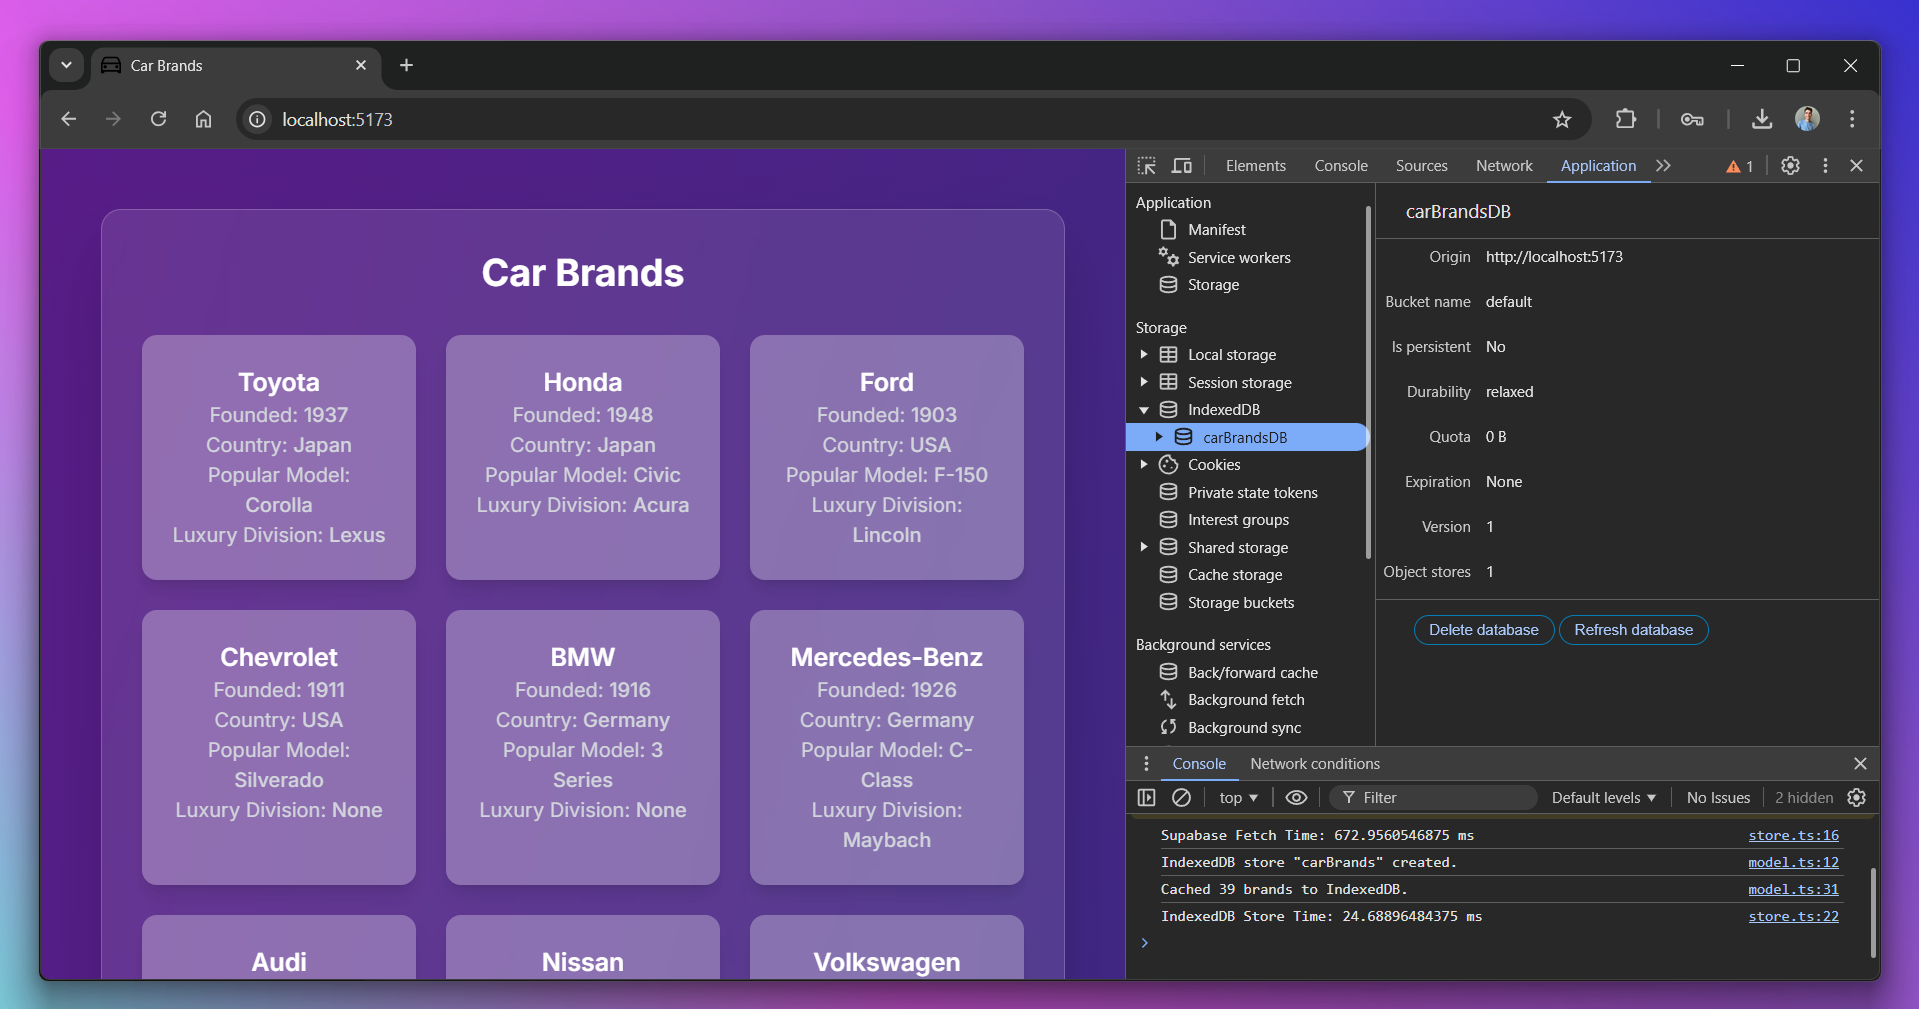
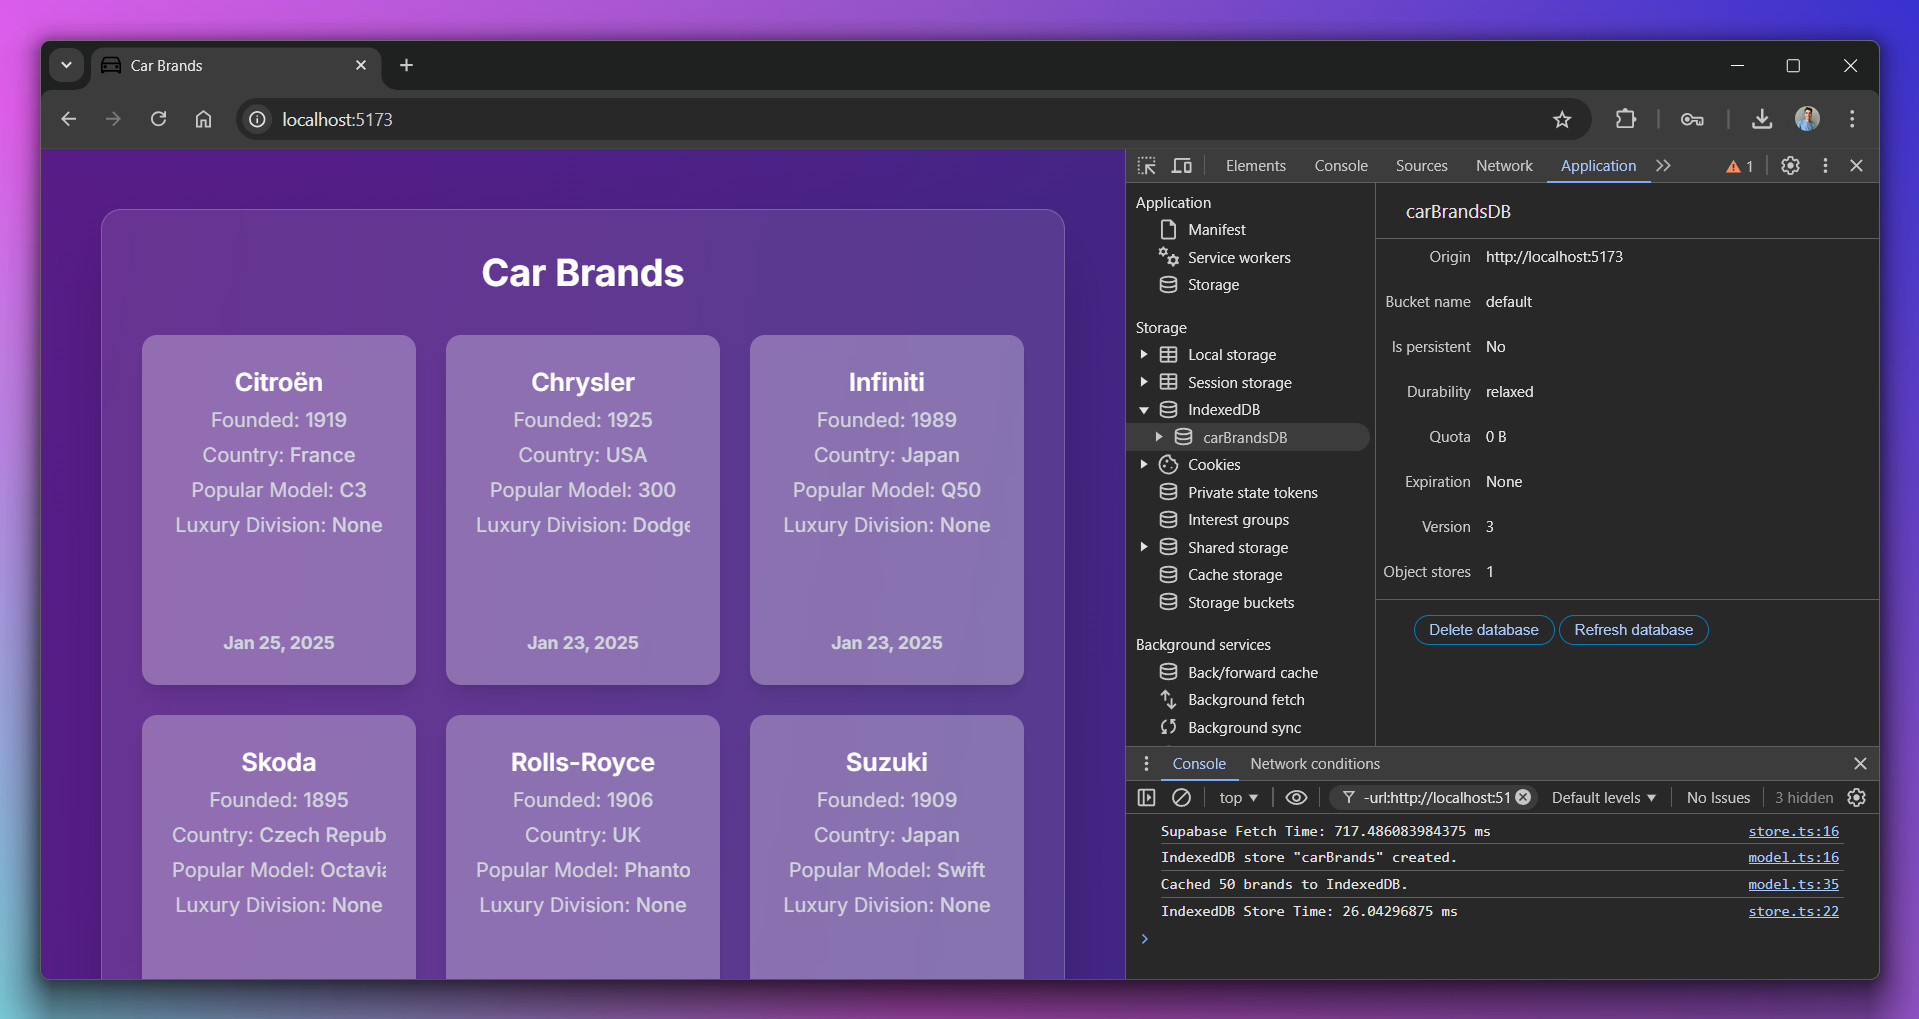
refactor: simplify and split components, add and display the createdAt field

diff --git a/src/features/brand-list/ui.tsx b/src/features/brand-list/ui.tsx
@@ -1,8 +1,9 @@
 import { useCarStore } from "@/entities/brand/store.ts";
-import { FaGithub, FaLinkedin, FaTwitter } from "react-icons/fa";
 import { useEffect } from "react";
+import { BrandCard } from "@/features/brand-card/ui.tsx";
+import { SocialLinks } from "@/features/social-links/ui.tsx";
 
-export const BrandList: React.FC = () => {
+export function BrandList() {
   const { brands, isLoading, fetchBrands } = useCarStore();
 
   useEffect(() => {
@@ -20,64 +21,19 @@ export const BrandList: React.FC = () => {
           Car Brands
         </h2>
         <div className="grid grid-cols-1 sm:grid-cols-2 md:grid-cols-3 lg:grid-cols-4 gap-6 w-full max-w-6xl">
-          {brands.map((brand) => (
-            <ul
-              key={brand.id}
-              className="p-6 rounded-xl bg-white/20 hover:bg-white/30 transition-all shadow-lg w-full text-white text-center backdrop-blur-lg transform hover:scale-105 duration-300"
-            >
-              <li>
-                <h3 className="text-xl font-semibold">{brand.brand_name}</h3>
-                <p className="text-gray-300">
-                  Founded: <span className="font-medium">{brand.founded}</span>
-                </p>
-                <p className="text-gray-300">
-                  Country: <span className="font-medium">{brand.country}</span>
-                </p>
-                <p className="text-gray-300">
-                  Popular Model:{" "}
-                  <span className="font-medium">{brand.popular_model}</span>
-                </p>
-                <p className="text-gray-300">
-                  Luxury Division:{" "}
-                  <span className="font-medium">
-                    {brand.luxury_division ? brand.luxury_division : "None"}
-                  </span>
-                </p>
-              </li>
-            </ul>
-          ))}
+          {brands
+            .slice()
+            .sort(
+              (a, b) =>
+                new Date(b.createdAt).getTime() -
+                new Date(a.createdAt).getTime()
+            )
+            .map((brand) => (
+              <BrandCard key={brand.id} brand={brand} />
+            ))}
         </div>
       </div>
-      <footer className="fixed left-0 top-0 h-full hidden lg:flex flex-col justify-between items-center p-4">
-        <div className="flex flex-col justify-center items-center gap-6 flex-grow">
-          <ul className="flex flex-col gap-5">
-            <li>
-              <a href="https://github.com/kulembetov" target="_blank">
-                <FaGithub
-                  size={30}
-                  className="text-purple-300 hover:scale-125 transition-transform duration-300"
-                />
-              </a>
-            </li>
-            <li>
-              <a href="https://linkedin.com/in/kulembetov" target="_blank">
-                <FaLinkedin
-                  size={30}
-                  className="text-purple-300 hover:scale-125 transition-transform duration-300"
-                />
-              </a>
-            </li>
-            <li>
-              <a href="https://twitter.com/arturkulembetov" target="_blank">
-                <FaTwitter
-                  size={30}
-                  className="text-purple-300 hover:scale-125 transition-transform duration-300"
-                />
-              </a>
-            </li>
-          </ul>
-        </div>
-      </footer>
+      <SocialLinks />
     </div>
   );
-};
+}

diff --git a/src/features/brand-card/ui.tsx b/src/features/brand-card/ui.tsx
@@ -1,0 +1,34 @@
+import { Brand } from "@/entities/brand/types.ts";
+import { formattedDate } from "@/utils/date.ts";
+
+export function BrandCard({ brand }: { brand: Brand }) {
+  return (
+    <ul
+      key={brand.id}
+      className="p-6 rounded-xl bg-white/20 hover:bg-white/30 transition-all shadow-lg w-full text-white text-center backdrop-blur-lg transform hover:scale-105 duration-300 flex flex-col h-full justify-between min-h-[250px] sm:min-h-[280px] lg:min-h-[300px]"
+    >
+      <li className="flex flex-col gap-1 whitespace-nowrap overflow-hidden text-ellipsis">
+        <h3 className="text-xl font-semibold">{brand.brand_name}</h3>
+        <p className="text-gray-300">
+          Founded: <span className="font-medium">{brand.founded}</span>
+        </p>
+        <p className="text-gray-300">
+          Country: <span className="font-medium">{brand.country}</span>
+        </p>
+        <p className="text-gray-300">
+          Popular Model:{" "}
+          <span className="font-medium">{brand.popular_model}</span>
+        </p>
+        <p className="text-gray-300">
+          Luxury Division:{" "}
+          <span className="font-medium">
+            {brand.luxury_division ? brand.luxury_division : "None"}
+          </span>
+        </p>
+      </li>
+      <p className="text-sm text-gray-300 font-bold mt-auto whitespace-nowrap">
+        {formattedDate(brand.createdAt)}
+      </p>
+    </ul>
+  );
+}

diff --git a/src/features/social-links/ui.tsx b/src/features/social-links/ui.tsx
@@ -1,0 +1,36 @@
+import { FaGithub, FaLinkedin, FaTwitter } from "react-icons/fa";
+
+export function SocialLinks() {
+  return (
+    <footer className="fixed left-0 top-0 h-full hidden lg:flex flex-col justify-between items-center p-4">
+      <div className="flex flex-col justify-center items-center gap-6 flex-grow">
+        <ul className="flex flex-col gap-5">
+          <li>
+            <a href="https://github.com/kulembetov" target="_blank">
+              <FaGithub
+                size={30}
+                className="text-purple-300 hover:scale-125 transition-transform duration-300"
+              />
+            </a>
+          </li>
+          <li>
+            <a href="https://linkedin.com/in/kulembetov" target="_blank">
+              <FaLinkedin
+                size={30}
+                className="text-purple-300 hover:scale-125 transition-transform duration-300"
+              />
+            </a>
+          </li>
+          <li>
+            <a href="https://twitter.com/arturkulembetov" target="_blank">
+              <FaTwitter
+                size={30}
+                className="text-purple-300 hover:scale-125 transition-transform duration-300"
+              />
+            </a>
+          </li>
+        </ul>
+      </div>
+    </footer>
+  );
+}

diff --git a/src/utils/date.ts b/src/utils/date.ts
@@ -1,0 +1,7 @@
+export function formattedDate(date: Date) {
+  return new Date(date).toLocaleString('en-US', {
+    day: '2-digit',
+    month: 'short',
+    year: 'numeric',
+  });
+}

diff --git a/src/entities/brand/types.ts b/src/entities/brand/types.ts
@@ -5,6 +5,7 @@ export type Brand = {
   founded: number;
   popular_model: string;
   luxury_division: string;
+  createdAt: Date;
 };
 
 export type CarStore = {

diff --git a/README.md b/README.md
@@ -26,17 +26,9 @@ IndexedDB is supported in **all modern browsers** and is a **game-changer** for 
 
 ---
 
-## Demo
-
-### Video
-
-[![Watch Demo](src/assets/img_3.png)](https://youtu.be/ErrKo0JPGcA)
-
-
-### Screenshots
+## Screenshots
+![img.png](src/assets/img.png)
 ![img_1.png](src/assets/img_1.png)
-![img_2.png](src/assets/img_2.png)
-
 ---
 
 ## Tech Stack
@@ -76,7 +68,8 @@ npm install
       country TEXT,
       founded INT,
       popular_model TEXT,
-      luxury_division TEXT
+      luxury_division TEXT,
+      created_at DATE
   );
   ```
 - **Add Supabase Credentials** in `.env`:
@@ -115,21 +108,22 @@ npm run dev
 
 ```
 car-brands/
-│── public/                 # Static assets (e.g., logo)
-│── src/                    # Main source code
-│   │── app/                # App-wide configurations
-│   │── entities/brand/     # Business logic (API, Zustand, IndexedDB)
-│   │── features/brand-list/# UI for displaying brands
-│   │── pages/              # Page components
-│   │── App.tsx             # Main App component
-│   │── main.tsx            # App entry point
-│── index.css               # Global Styles
-│── .gitignore              # Git ignore rules
-│── .env.example            # Environment variables
-│── package.json            # Dependencies & scripts
-│── tsconfig.json           # TypeScript configuration
-│── vite.config.ts          # Vite configuration
-│── README.md               # Project documentation
+│── public/                  # Static assets (e.g., logo)
+│── src/                     # Main source code
+│   │── app/                 # App-wide configurations
+│   │── assets/              # Images for README
+│   │── entities/brand/      # Business logic (API, Zustand, IndexedDB)
+│   │── features/brand-list/ # UI for displaying brands
+│   │── pages/               # Page components
+│   │── App.tsx              # Main App component
+│   │── main.tsx             # App entry point
+│── index.css                # Global Styles
+│── .gitignore               # Git ignore rules
+│── .env.example             # Environment variables
+│── package.json             # Dependencies & scripts
+│── tsconfig.json            # TypeScript configuration
+│── vite.config.ts           # Vite configuration
+│── README.md                # Project documentation
 ```
 
 ---
@@ -141,9 +135,8 @@ car-brands/
 Check **console logs** to compare Supabase and IndexedDB speeds:
 
 ```
-Supabase Fetch Time: 634ms
-IndexedDB Store Time: 14ms
-IndexedDB Fetch Time (Offline): 5ms
+Supabase Fetch Time: 209ms
+IndexedDB Store Time: 6ms
 ```
 
 IndexedDB significantly improves offline performance.
